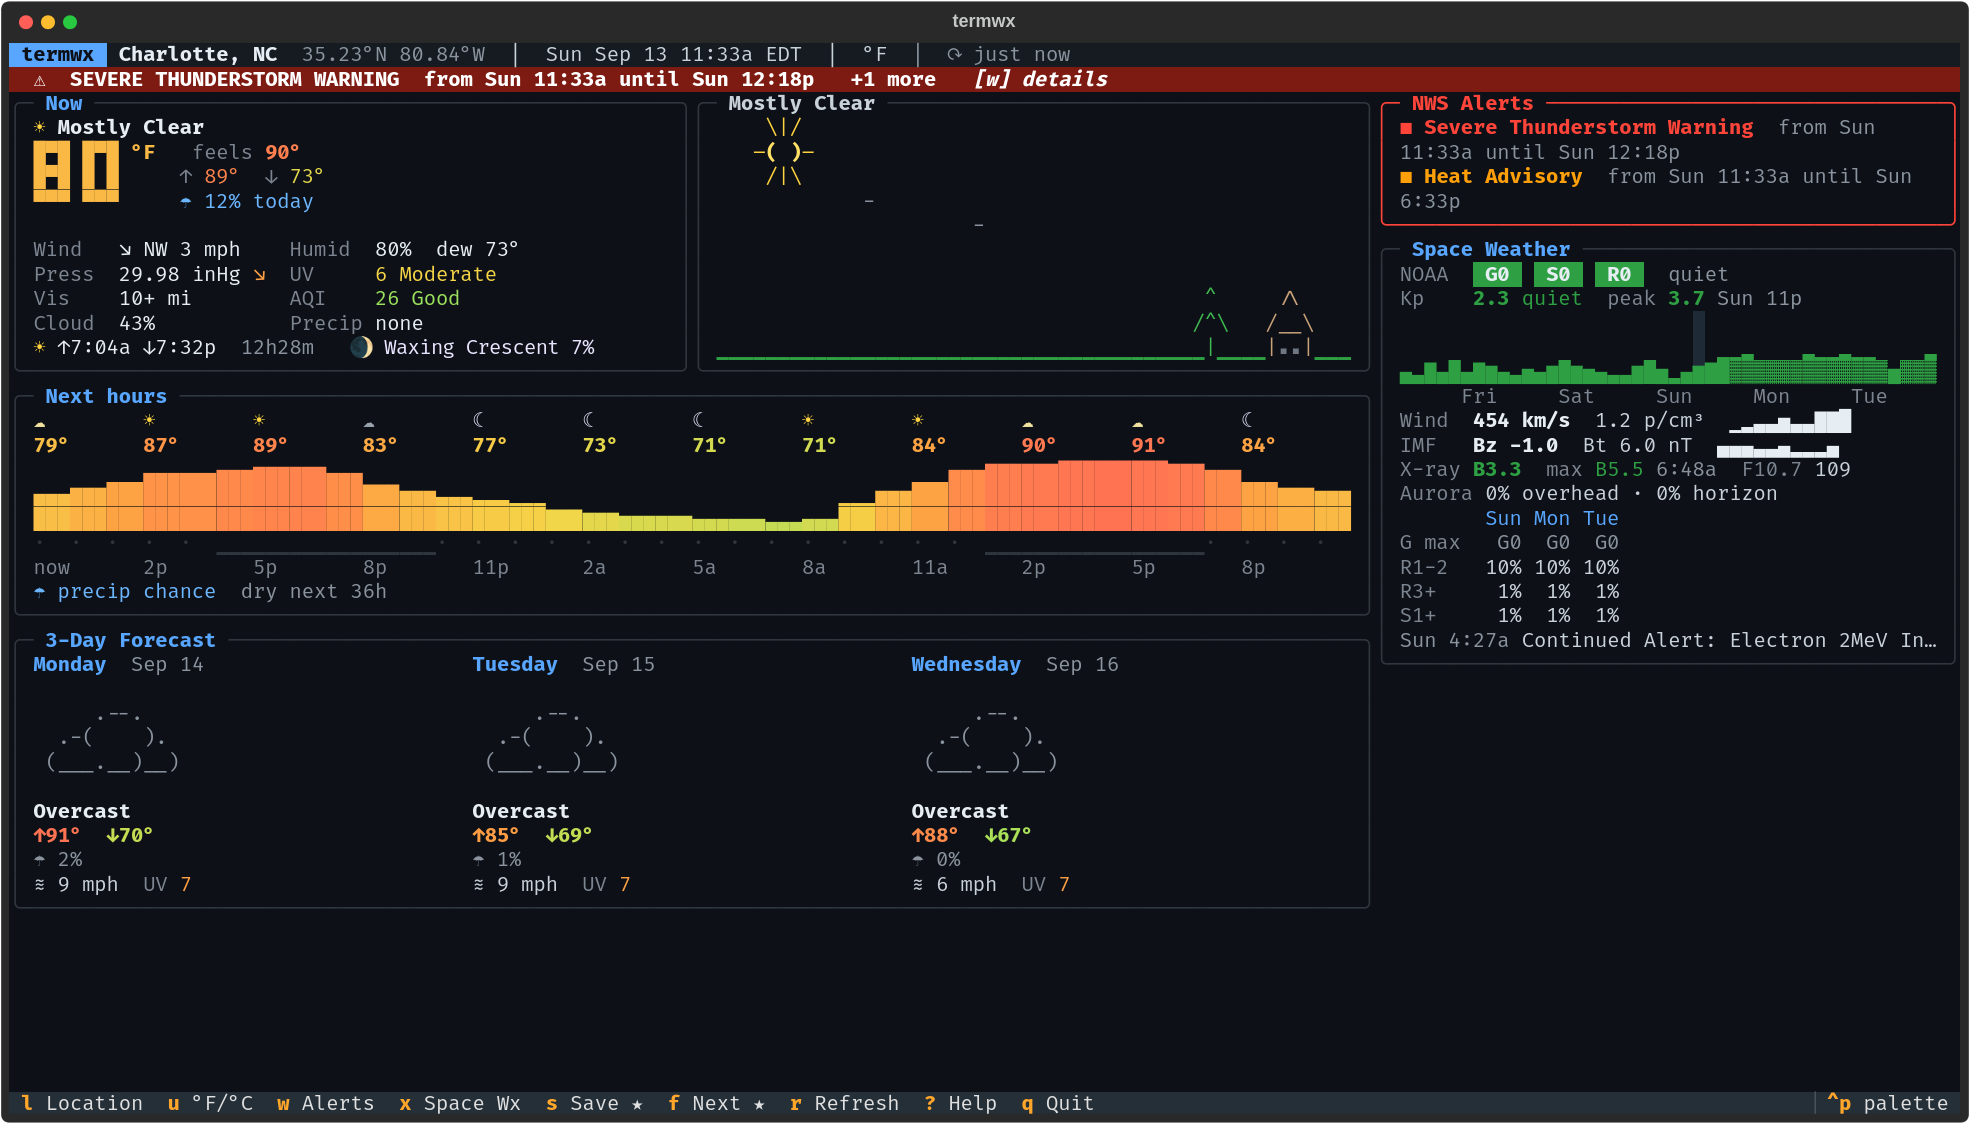
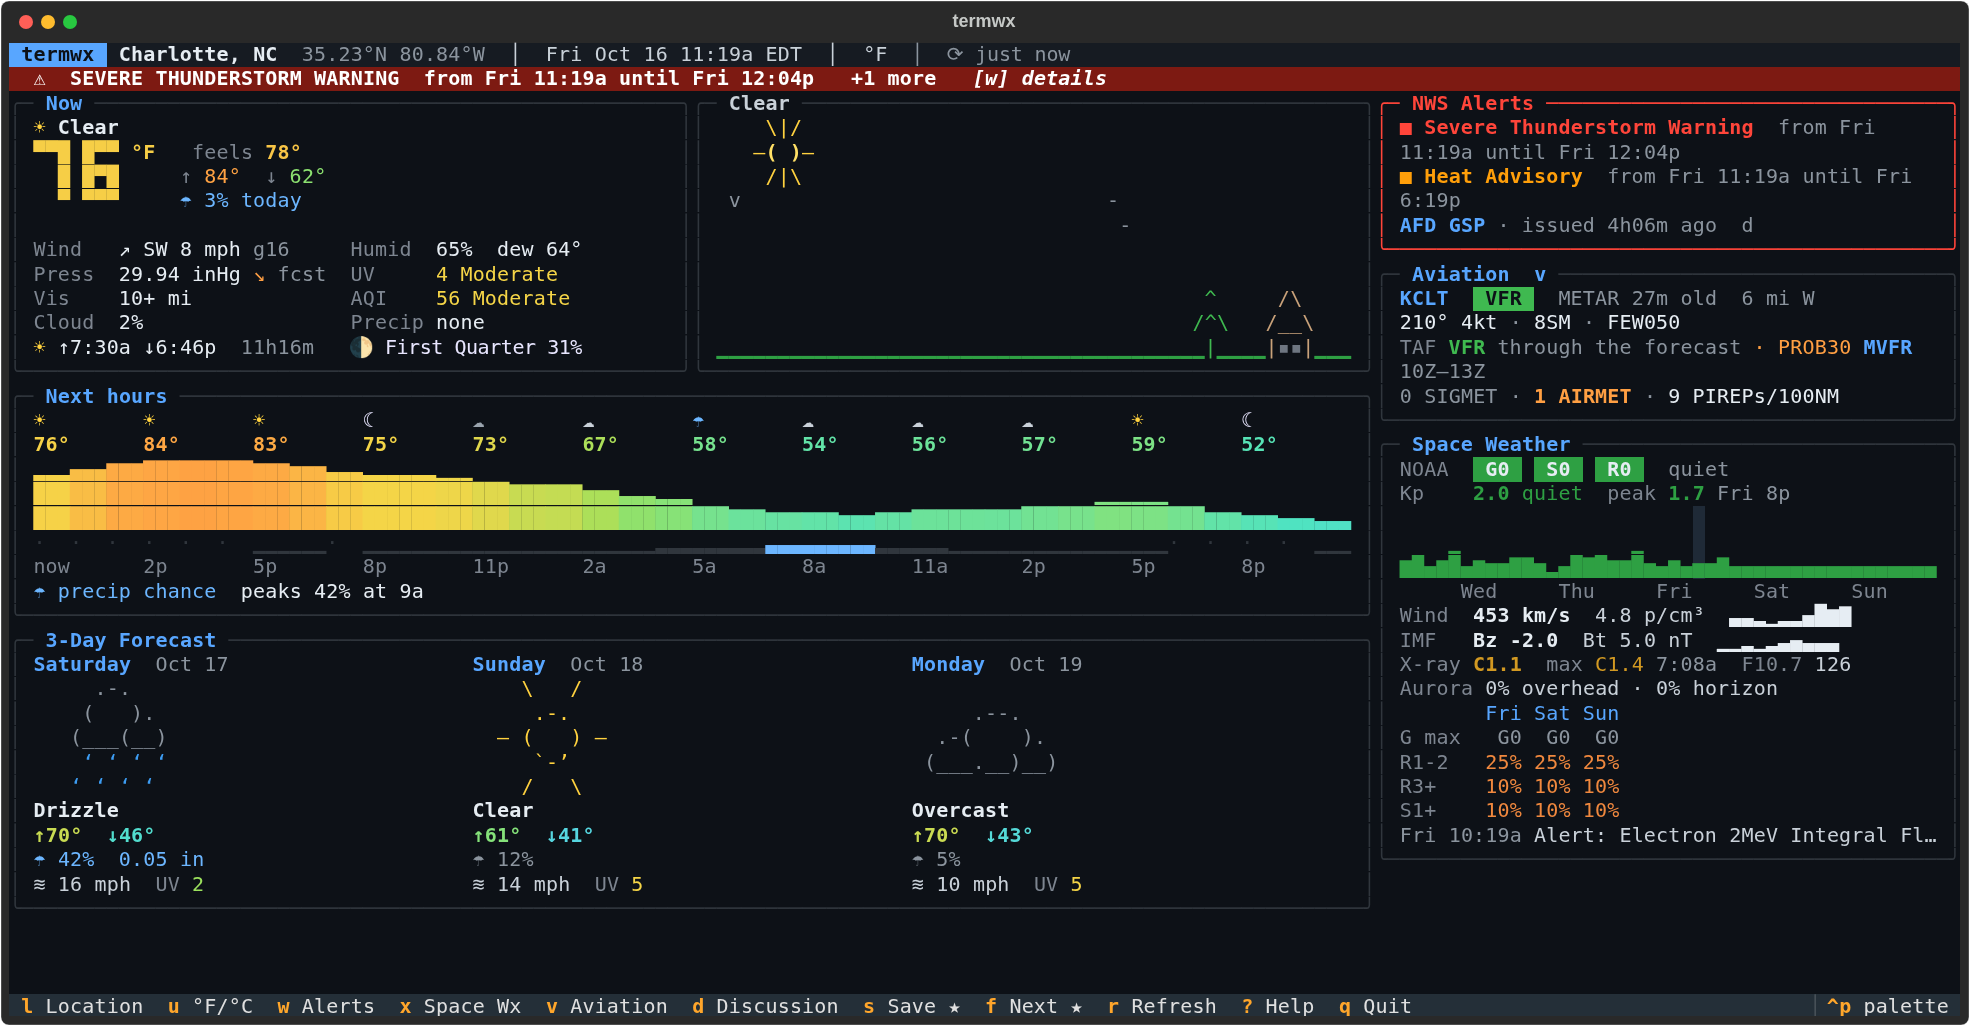
Update README screenshot for 0.2.0 with the Aviation panel

diff --git a/README.md b/README.md
@@ -6,10 +6,9 @@ alerts, a NOAA space weather dashboard, and an aviation console with METAR/TAF,
 PIREPs, SIGMETs, G-AIRMETs, CWAs, winds aloft and the NWS forecast discussion.
 No API keys.
 
-![termwx dashboard showing current conditions, animated sky, hourly graph, 3-day forecast, an alert banner and space weather](docs/screenshot.png)
+![termwx dashboard showing current conditions, animated sky, hourly graph, 3-day forecast, an alert banner, the aviation panel and space weather](docs/screenshot.png)
 
-<sub>Live data for Charlotte, NC, launched with <code>--demo-alert</code> to show the alert banner.
-This screenshot predates 0.2.0, so it doesn't show the Aviation panel yet.</sub>
+<sub>Live data for Charlotte, NC (0.2.0), launched with <code>--demo-alert</code> to show the alert banner.</sub>
 
 ## Install
 
@@ -250,7 +249,6 @@ run against the live services for Charlotte, Denver and Tampa.
 
 - A NOTAM provider using the FAA API, opt-in through environment variables.
 - Showing TAF icing/turbulence groups and G-AIRMET forecast snapshots.
-- A new screenshot that includes the Aviation panel.
 
 ## Development
 
